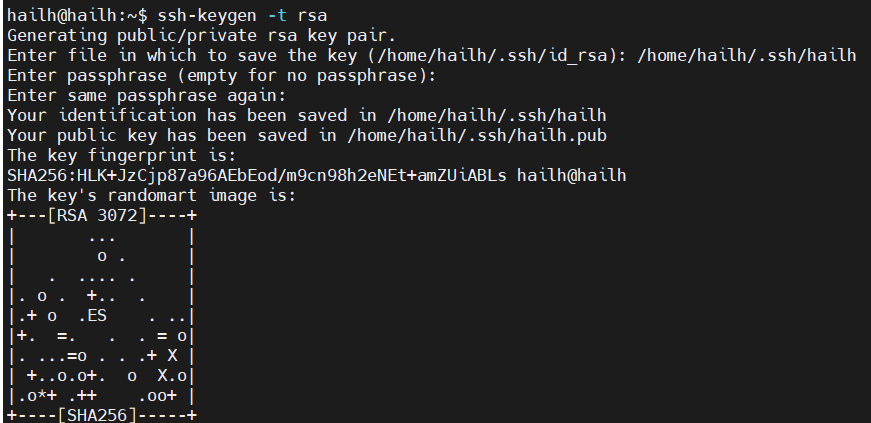
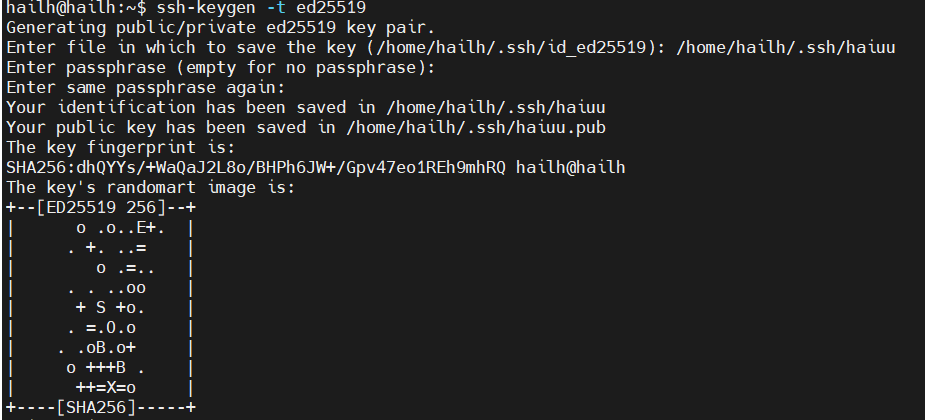
Update linuxx

diff --git a/linuxx/SSH key.md b/linuxx/SSH key.md
@@ -1,11 +1,21 @@
 # SSH
-1. `ssh-keygen -t rsa` tạo ssh key
-- ` -t rsa` sử dụng thuật toán rsa 
-2. `Enter file in which to save the key (/home/hailh/.ssh/id_rsa): ` chọn nơi lưu key
+1. SSH Key là gì 
+- SSH Key là một cặp khóa mật mã được sử dụng để xác thực an toàn khi kết nối tới một máy chủ từ xa qua giao thức SSH (Secure Shell) thay cho việc dùng mật khẩu.
+- SSH key gồm 2 phần :
+- private key : giữ bí mật chỉ lưu trữ trên máy của mình không được chia sẻ 
+- public key : có thể chia sẻ với máy chủ từ xa 
+2. lợi ích sử dụng ssh key 
+- Tăng Cường Bảo Mật: SSH keys loại bỏ nguy cơ bị đánh cắp mật khẩu thông qua việc nghe lén hoặc tấn công thử mật khẩu như brute-force và các thử nghiệm phishing, vì chúng yêu cầu quyền truy cập vào khóa riêng tư.
+- Tiện Lợi: Sau khi cấu hình, SSH keys cho phép xác thực không cần mật khẩu, giúp việc truy cập vào nhiều máy chủ trở nên dễ dàng hơn. 
+- khả Năng Mở Rộng: Chúng đặc biệt hữu ích trong môi trường có nhiều máy chủ
+
+bước 1. `ssh-keygen -t ed25519` tạo ssh key
+- `ed25519` là một loại thuật toán mã hóa khóa công khai hiện đại , nhanh hơn, nhỏ hơn và bảo mật tốt hơn
+2. `Enter file in which to save the key (/home/hailh/.ssh/id_ed25519): ` chọn nơi lưu key
 3. `Enter passphrase (empty for no passphrase):` nhập mật khẩu 
 ![](./images/a.png)
-- `hailh` private key 
-- `hailh.pub` public key
+- `haiuu` private key 
+- `haiuu.pub` public key
 
 4. `ls -al ~/.ssh` kiểm tra xem đã tạo thành công chưa 
 
